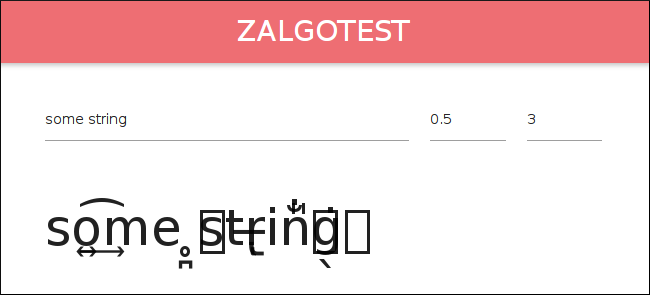
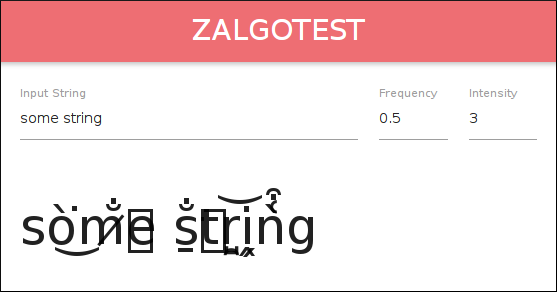
update html

diff --git a/index.html b/index.html
@@ -18,7 +18,10 @@
 <body>
 
   <nav>
-    <a class="brand-logo center">ZALGOTEST</a>
+    <a class="brand-logo center"
+       href="https://github.com/cosmicexplorer/zalgify">
+      ZALGOTEST
+    </a>
   </nav>
 
   <br/>
@@ -27,12 +30,24 @@
     <div class="row">
       <div class="input-field col s8">
         <input value="some string" id="string" type="text">
+        <label for="string" class="tooltipped active" data-position="top"
+               data-delay="50" data-tooltip="Enter a string to zalgify.">
+          Input String
+        </label>
       </div>
       <div class="input-field col s2">
         <input value="0.5" max=20 id="frequency" type="number" class="validate">
+        <label for="frequency" class="tooltipped active" data-position="top"
+               data-delay="50" data-tooltip="Frequency of diacritics used.">
+          Frequency
+        </label>
       </div>
       <div class="input-field col s2">
         <input value="3" min=0 max=20 id="intensity" type="number" class="validate">
+        <label for="intensity" class="tooltipped active" data-position="top"
+               data-delay="50" data-tooltip="Intensity of diacritics used.">
+          Intensity
+        </label>
       </div>
     </div>
     <div class='row'>
